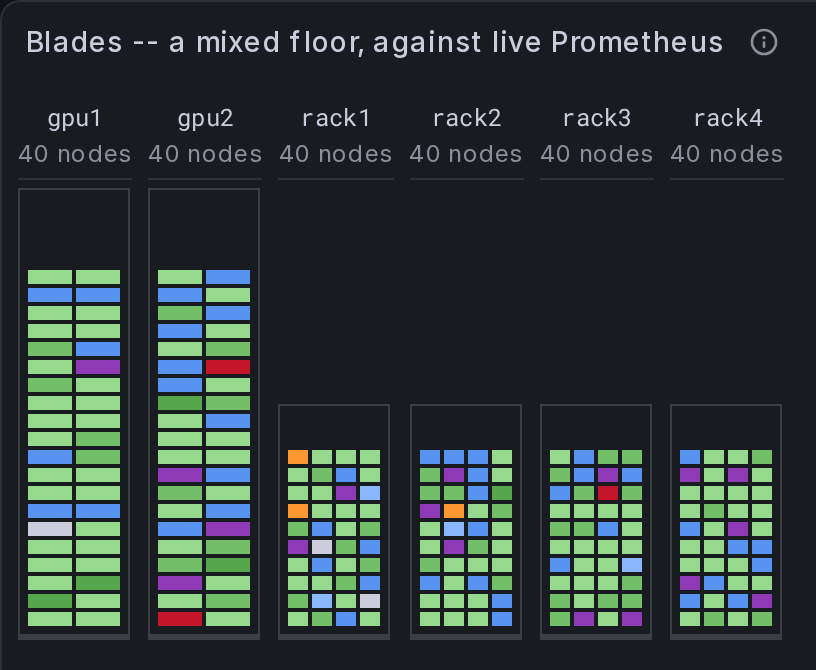
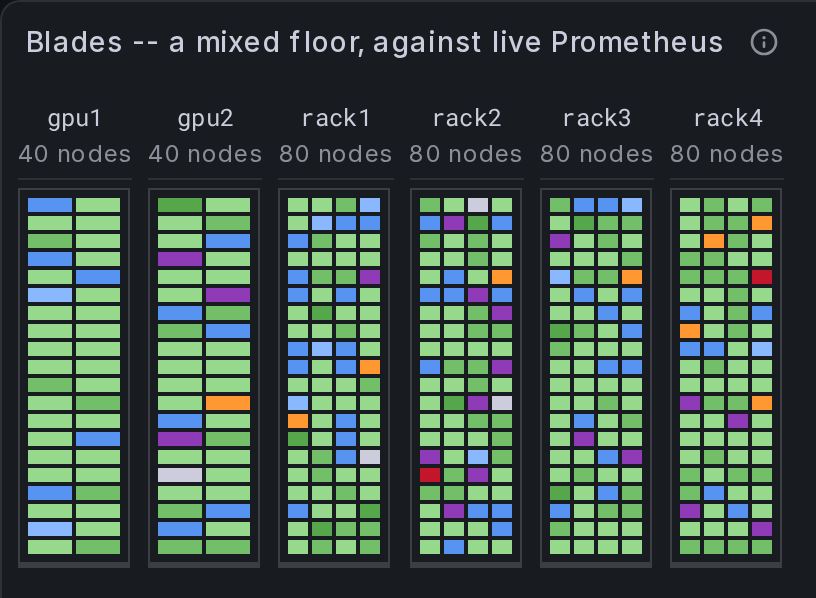
feat(dev): size the fixture's racks from their blade density
Every rack held forty nodes whatever its blades. At four nodes per blade a
compute cabinet then needs ten rows and at two a gpu cabinet needs twenty,
so the compute cabinets were declared at twelve slots against twenty-four
and drew half the height of their neighbours. The panel was drawing that
faithfully: forty nodes in a quad-blade cabinet is a quarter-full cabinet.
The arithmetic was wrong in the fixture, not in the rendering.

Rack size now follows blade density. Four compute racks of eighty and two
gpu racks of forty, 400 nodes: both kinds fill the same twenty slots, so
the floor is level and every cabinet is full. The gpu ratio moves from one
node in three to one in five to produce the 320/80 split.

Two defaults claimed the partition cycle - serve.py and docker-compose.yml
- and the compose one won silently, which is how an edit to the exporter
changed nothing at all. serve.py owns it now; compose passes empty.

The blades panel loses the declared-height demonstration it was carrying
on the side, so that gets its own panel, "Two declared heights, one floor":
twenty slots against twenty-six over cabinets that both draw twenty rows,
which isolates the declaration from the contents better than the old pair
did. The e2e regression test for cabinet height moves to it.

The blade test counted rows, ten against twenty. Rack size follows density
now, so both come to twenty rows and row count no longer separates them. It
[…]

diff --git a/plugins/nodegrid-panel/tests/nodegrid.spec.ts b/plugins/nodegrid-panel/tests/nodegrid.spec.ts
@@ -68,11 +68,12 @@ test.describe('the node grid renders against a real Grafana', () => {
 
     await expect(page.getByTestId('slurm-node-grid')).toBeVisible({ timeout: 15_000 });
     const cells = page.locator('[data-testid^="node-cell-"]');
-    // The synthetic exporter publishes 240 nodes across 6 racks. A bound of
-    // 10 would pass even if a frame-shape defect silently dropped 200 of
-    // them; 200 catches a partial ingest failure, not only a total one, and
-    // stays a lower bound so it survives someone changing SYNTH_NODES.
-    await expect.poll(() => cells.count(), { timeout: 15_000 }).toBeGreaterThan(200);
+    // The synthetic exporter publishes 400 nodes across 6 racks: four compute
+    // racks of eighty and two gpu racks of forty. A bound of 10 would pass
+    // even if a frame-shape defect silently dropped most of them; 350 catches
+    // a partial ingest failure, not only a total one, and stays a lower bound
+    // so it survives someone changing SYNTH_NODES.
+    await expect.poll(() => cells.count(), { timeout: 15_000 }).toBeGreaterThan(350);
   });
 
   test('paints different states different colours', async ({ gotoDashboardPage, readProvisionedDashboard, page }) => {
@@ -84,11 +85,12 @@ test.describe('the node grid renders against a real Grafana', () => {
     await gotoDashboardPage(dashboard);
 
     const mapped = page.locator('[data-testid^="node-cell-"][data-mapped="true"]');
-    // 173 of the 240 synthetic nodes match a shipped mapping today. 100 stays
-    // a lower bound (survives a SYNTH_NODES change) while still failing on a
-    // partial render (e.g. one rack's worth, ~29 cells) that a bound of 10
-    // would let through unnoticed.
-    await expect.poll(() => mapped.count(), { timeout: 15_000 }).toBeGreaterThan(100);
+    // All 400 synthetic nodes match a shipped mapping today: the twenty-one
+    // rules cover every sinfo state in both spellings, suffixes included. 300
+    // stays a lower bound (survives a SYNTH_NODES change) while still failing
+    // on a partial render — one rack's worth is eighty cells, which a bound of
+    // 10 would let through unnoticed.
+    await expect.poll(() => mapped.count(), { timeout: 15_000 }).toBeGreaterThan(300);
 
     const colours = await mapped.evaluateAll((nodes) =>
       Array.from(new Set(nodes.map((n) => getComputedStyle(n).backgroundColor)))
@@ -164,10 +166,13 @@ test.describe('the panel supplies its own state colours', () => {
     // form searches for a mapped element *inside* each cell and matches
     // nothing, which reports zero on a grid that is fully coloured.
     const mapped = page.locator('[data-testid^="node-cell-"][data-mapped="true"]');
-    // The four panels carry 231 cells between them and 220 match a shipped
-    // rule. A bound of 1 would pass on a single lucky cell; 150 fails if the
-    // defaults reach only one panel, and stays clear of 220 so that adding an
-    // unmapped state to the reference panel does not break it.
+    // 203 cells are mounted and mapped at this viewport — not every panel on
+    // the dashboard: Grafana mounts a panel only once it scrolls into view,
+    // and this test does not scroll. Counting the whole dashboard gives 643,
+    // which is why a bound read off a scrolled page fails here. A bound of 1
+    // would pass on a single lucky cell; 150 fails if the defaults reach only
+    // one panel, and stays clear of 203 so that adding an unmapped state to
+    // the reference panel does not break it.
     await expect.poll(() => mapped.count(), { timeout: 15_000 }).toBeGreaterThan(150);
 
     // Mapped is not the same as coloured: a uniformly grey grid would still
@@ -189,7 +194,7 @@ test.describe('the continuous colour modes', () => {
 
     // Every synthetic node reports cpu_alloc and cpu_total, so every cell has
     // a value and none may be drawn empty — if the facet queries stopped being
-    // read this would be 240, not 0.
+    // read this would be 400, not 0.
     const cpu = (await gridIn(dashboardPage, 'CPU occupancy')).locator('[data-testid^="node-cell-"]');
     await expect.poll(() => cpu.count(), { timeout: 20_000 }).toBeGreaterThan(200);
     expect(await cpu.locator(':scope[data-filled="false"]').count()).toBe(0);
@@ -393,25 +398,25 @@ test.describe('the coverage signal, proven by a source that deliberately covers 
   test('an incomplete range table draws the orphans as unplaced and names a wider label', async ({ page }) => {
     await gotoPanelWithData(page, 8, 'rack1');
 
-    // The table names only rack1: c[1-40] against the full 240-node cluster,
-    // so 40 nodes are placed and the other 200 fall outside every range.
+    // The table names only rack1: c[1-80] against the full 400-node cluster,
+    // so 80 nodes are placed and the other 320 fall outside every range.
     const placed = page.getByTestId('node-group-rack1');
     await expect(placed).toBeVisible({ timeout: 15_000 });
-    await expect.poll(() => placed.locator('[data-testid^="node-cell-"]').count(), { timeout: 15_000 }).toBe(40);
+    await expect.poll(() => placed.locator('[data-testid^="node-cell-"]').count(), { timeout: 15_000 }).toBe(80);
 
     const orphaned = page.getByTestId('node-group-ungrouped');
     await expect(orphaned).toBeVisible();
     await expect(orphaned).toHaveAttribute('data-unplaced', 'true');
-    await expect.poll(() => orphaned.locator('[data-testid^="node-cell-"]').count(), { timeout: 15_000 }).toBe(200);
+    await expect.poll(() => orphaned.locator('[data-testid^="node-cell-"]').count(), { timeout: 15_000 }).toBe(320);
 
     // Both signals on one panel: the orphan line names what the range table
     // missed, and the coverage line names the label that would have covered
-    // all 240 - the measurement that stays silent on every other panel here,
+    // all 400 - the measurement that stays silent on every other panel here,
     // because their sources already cover every node.
     const strip = page.getByTestId('panel-warnings').first();
     await expect(strip).toBeVisible({ timeout: 15_000 });
-    await expect(strip).toContainText('200 nodes matched no range');
-    await expect(strip).toContainText('Label "rack" would group all 240');
+    await expect(strip).toContainText('320 nodes matched no range');
+    await expect(strip).toContainText('Label "rack" would group all 400');
   });
 });
 
@@ -457,23 +462,31 @@ test.describe('blades, against the same live data', () => {
     // cells actually are, and toBeVisible passes for anything mounted.
     await gotoPanelWithData(page, 9, 'rack1');
 
-    const rows = async (group: string) => {
-      const boxes = await page
+    // Sleds across, not rows down. Row count used to carry this — forty nodes
+    // made ten rows at four per blade and twenty at two — but the fixture now
+    // sizes a rack to its blade density, so a compute rack of eighty and a gpu
+    // rack of forty both come to twenty rows. Width is what blade density
+    // actually decides, and it is what this test has always claimed to check.
+    const sledsAcross = async (group: string) => {
+      const lefts = await page
         .getByTestId(`node-group-${group}`)
         .locator('[data-testid^="node-cell-"]')
-        .evaluateAll((cells) => cells.map((c) => Math.round(c.getBoundingClientRect().top)));
-      return new Set(boxes).size;
+        .evaluateAll((cells) => cells.map((c) => Math.round(c.getBoundingClientRect().left)));
+      return new Set(lefts).size;
     };
 
-    // Forty nodes: ten rows at four per blade, twenty at two.
-    expect(await rows('rack1')).toBe(10);
-    expect(await rows('gpu1')).toBe(20);
+    expect(await sledsAcross('rack1')).toBe(4);
+    expect(await sledsAcross('gpu1')).toBe(2);
   });
 });
 
 test.describe('cabinet height, against the same live data', () => {
   test('draws each cabinet at its declared height, standing on one floor', async ({ page }) => {
-    await gotoPanelWithData(page, 9, 'rack1');
+    // Panel 10, not panel 9. Panel 9 is the blade demo and its floor is
+    // deliberately level now — every cabinet declared at twenty slots and
+    // full. Panel 10 exists to hold the two declarations apart: twenty slots
+    // against twenty-six, over cabinets that both draw twenty rows.
+    await gotoPanelWithData(page, 10, 'rack1');
 
     const frame = async (group: string) => {
       const box = await page.getByTestId(`node-group-${group}`).getByTestId('rack-frame').boundingBox();
@@ -484,8 +497,8 @@ test.describe('cabinet height, against the same live data', () => {
     const rack = await frame('rack1');
     const gpu = await frame('gpu1');
 
-    // Twelve slots against twenty-four: the declaration decides the height,
-    // not the contents — both cabinets hold forty nodes.
+    // Twenty slots against twenty-six: the declaration decides the height,
+    // not the contents — both cabinets draw exactly twenty rows.
     expect(gpu.height).toBeGreaterThan(rack.height);
 
     // And the shorter one is not hanging: both feet land on the same line.
@@ -506,7 +519,7 @@ test.describe('cabinet height, against the same live data', () => {
     const tops = await group
       .locator('[data-testid^="node-cell-"]')
       .evaluateAll((cells) => cells.map((c) => c.getBoundingClientRect().top));
-    expect(tops.length).toBe(40);
+    expect(tops.length).toBe(80);
     const highest = Math.min(...tops);
 
     // Up, not down: the frame fills from its floor, so the rows that do not
@@ -520,7 +533,7 @@ test.describe('cabinet height, against the same live data', () => {
 
   test('names the cabinet that outgrew its declaration', async ({ page }) => {
     await gotoPanelWithData(page, 40, 'rack1');
-    await expect(page.getByText('rack1 needs 40 slots but 4 were declared.')).toBeVisible();
+    await expect(page.getByText('rack1 needs 20 slots but 12 were declared.')).toBeVisible();
   });
 
   test('gives the rows the whole content box, with nothing leaking past the padding', async ({ page }) => {

diff --git a/dev/synthetic-exporter/serve.py b/dev/synthetic-exporter/serve.py
@@ -1,7 +1,7 @@
 #!/usr/bin/env python3
 """Publish a synthetic Slurm cluster in the Prometheus text format.
 
-Shape is set by environment variable, so one image covers a 240-node smoke
+Shape is set by environment variable, so one image covers a 400-node smoke
 test, a 3000-node scale test, and everything between:
 
     RACKS=4  NODES_PER_RACK=80          # 320 nodes
@@ -41,8 +41,15 @@ from http.server import BaseHTTPRequestHandler, HTTPServer
 
 RACKS = max(1, int(os.environ.get("RACKS", "6")))
 NODES_PER_RACK = int(os.environ.get("NODES_PER_RACK", "0"))
-NODES = RACKS * NODES_PER_RACK if NODES_PER_RACK > 0 else int(os.environ.get("NODES", "240"))
-PARTITIONS = os.environ.get("PARTITIONS", "cpu,gpu,debug").split(",")
+NODES = RACKS * NODES_PER_RACK if NODES_PER_RACK > 0 else int(os.environ.get("NODES", "400"))
+# One gpu node in five, not one in three. The ratio is what makes a floor of
+# equal-height cabinets possible: a compute cabinet takes quad blades and a
+# gpu cabinet duos, so at the same twenty slots the compute rack holds eighty
+# nodes and the gpu rack forty. Four compute racks and two gpu racks at those
+# sizes is 400. A three-name cycle gave every rack the same forty nodes
+# whatever its blade density, which drew the compute cabinets half empty and
+# described hardware that does not exist.
+PARTITIONS = (os.environ.get("PARTITIONS") or "cpu,gpu,debug,cpu,cpu").split(",")
 SEED = int(os.environ.get("SEED", "1"))
 
 _KNOWN_PROFILES = ("production", "incident", "showcase")

diff --git a/dev/README.md b/dev/README.md
@@ -178,7 +178,7 @@ covers what each of the three rungs actually needs from you.
 ## Three ways to a topology, and how each one is wired
 
 `dev/relabel/racks.txt` gives this dev cluster a real `rack` label: six groups
-covering `rack1..rack4` over `c1..c160` and `gpu1..gpu2` over `g1..g80`, by
+covering `rack1..rack4` over `c1..c320` and `gpu1..gpu2` over `g1..g80`, by
 turning the same table into Prometheus relabelling (`make scrape`, run by
 `make up`) that also pastes into the panel's Grouping > Ranges option. That
 one file is the input to two of the three routes below; **grouping and
@@ -187,7 +187,7 @@ query on that live cluster, and the panel plugin's own e2e suite
 (`the three ways to get a topology, proven against the same live data`)
 asserts each of them.
 
-The dashboard's ten panels, in provisioned order:
+The dashboard's eleven panels, in provisioned order:
 
 | # | Panel | Grouping | Data |
 |---|---|---|---|
@@ -198,12 +198,13 @@ The dashboard's ten panels, in provisioned order:
 | 5 | Rung 1, label, against live Prometheus | Label `rack` | Prometheus, relabelled by `make scrape` |
 | 6 | Rung 2, join, against an inventory the metrics do not carry | Label `zone` | Prometheus (query A) joined to a CSV inventory (query B) |
 | 7 | Rung 3, ranges, against live Prometheus | Ranges, `$racks` dashboard variable | Prometheus |
-| 8 | Deliberately incomplete, a range table covering one rack of six | Ranges, `rack1: c[1-40]` | Prometheus, the full 240-node cluster |
-| 9 | Blades, a mixed floor | Label `rack` | Prometheus, with `rack[1-4]: 4` and `gpu[1-2]: 2` declared per group |
-| 10 | A declaration too small for what arrived | Label `rack`, `rack1` declared at four slots | Prometheus, the full 240-node cluster |
+| 8 | Deliberately incomplete, a range table covering one rack of six | Ranges, `rack1: c[1-80]` | Prometheus, the full 400-node cluster |
+| 9 | Blades, a mixed floor | Label `rack` | Prometheus, with `rack[1-4]: 4` and `gpu[1-2]: 2` declared per group, every cabinet at twenty slots |
+| 10 | Two declared heights, one floor | Label `rack` | Prometheus, same blades, `rack[1-4]: 20` against `gpu[1-2]: 26` |
+| 40 | A declaration too small for what arrived | Label `rack`, `rack1` declared at twelve slots | Prometheus, the full 400-node cluster |
 
-Panels 1-4 are the same 20-node CSV, grouped four ways, and need nothing
-running but Grafana. Panels 5-10 read this dev cluster's live Prometheus:
+Panels 1-4 are the same 32-node CSV, grouped four ways, and need nothing
+running but Grafana. The rest read this dev cluster's live Prometheus:
 rungs 1-3, the coverage signal, and the two that pin blade density and cabinet
 height.
 
@@ -286,10 +287,10 @@ groups appear.
 some label would place strictly more nodes than the active source does. Every
 demo above covers every node it queries, so that line never fires on any of
 them, and proving nothing is not the same as the signal working. One further
-panel groups the *entire* 240-node cluster by a range table naming only
-`rack1: c[1-40]`: 40 nodes land in `rack1`, the other 200 match no range and
+panel groups the *entire* 400-node cluster by a range table naming only
+`rack1: c[1-80]`: 80 nodes land in `rack1`, the other 320 match no range and
 draw under `ungrouped`, dashed and marked unplaced, and the warnings strip
-both names the 200 and reports that `rack` would cover all 240. Deliberately
+both names the 320 and reports that `rack` would cover all 400. Deliberately
 incomplete, not a broken panel; its own description says so.
 
 ## Browser tests

diff --git a/docs/specs/2026-09-16-cabinet-height-design.md b/docs/specs/2026-09-16-cabinet-height-design.md
@@ -398,3 +398,18 @@ Read back against the implementation before tagging 0.1.0.
 | `**Status:** design approved, not implemented` | Implemented. `packages/core/src/layout/slots.ts`, `layoutSlots` in `rackGeometry.ts`, and the e2e block `cabinet height, against the same live data` |
 | `frameHeight` adds `RACK_BORDER * 2` | The vertical chrome is asymmetric: `RACK_PADDING * 2 + RACK_BORDER + RACK_FOOT`, because the cabinet's foot is heavier than its top edge. The width formula is the symmetric one; this axis is not |
 | "a 42-slot cabinet holds 42 nodes of duos on 21 slots, or 160 nodes of quads on 40 slots" | 42 slots hold 42 nodes of single-node servers, 84 of duos and 168 of quads. The old sentence mixed a cabinet's capacity with the slots a fixed node count needs |
+
+## Revision (2026-09-19)
+
+The dev fixture changed shape, which retires this document's own opening
+complaint.
+
+| Was | Is |
+|---|---|
+| "all six racks in the dev fixture hold exactly forty nodes, so every screenshot shows six cabinets of equal height" | The fixture is 400 nodes: four compute racks of eighty and two gpu racks of forty. Those sizes follow from blade density, so both kinds fill the same twenty slots. Equal height is now the *correct* drawing, not a demonstration gap |
+| The declared-height demonstration lives on the blades panel, which declared twelve slots against twenty-four | It has its own panel, `Two declared heights, one floor` (id 10 of the grouping dashboard): twenty slots against twenty-six, over cabinets that both draw twenty rows. The blades panel is level and full, because that is what the hardware it describes looks like |
+
+The old arrangement made the compute cabinets read as half empty. They were:
+forty nodes in a quad-blade cabinet occupy ten slots, and a cabinet holding a
+quarter of what it can take is a half-empty cabinet drawn faithfully. The
+defect was in the fixture's arithmetic, not in the rendering.

diff --git a/docs/specs/2026-09-16-blade-density-design.md b/docs/specs/2026-09-16-blade-density-design.md
@@ -243,3 +243,10 @@ for the occasion would prove less.
   two-logical-racks escape hatch may mean it is never wanted.
 - The legibility of a panel drawing 125 cabinets at once. That is a limit of
   the panel today; density neither causes it nor cures it.
+
+## Revision (2026-09-19)
+
+| Was | Is |
+|---|---|
+| "The dev fixture suits it: 240 nodes over six racks of forty gives ten rows" | 400 nodes over four compute racks of eighty and two gpu racks of forty. A compute rack gives twenty rows at four per blade, a gpu rack twenty at two — the point of the sizes is that both fill the same cabinet |
+| The e2e test proved blade density by counting rows, ten against twenty | It counts sleds across, four against two. Row count no longer separates the two densities, because the rack sizes now follow them; width is what blade density decides, and it is what that test always claimed to check |
